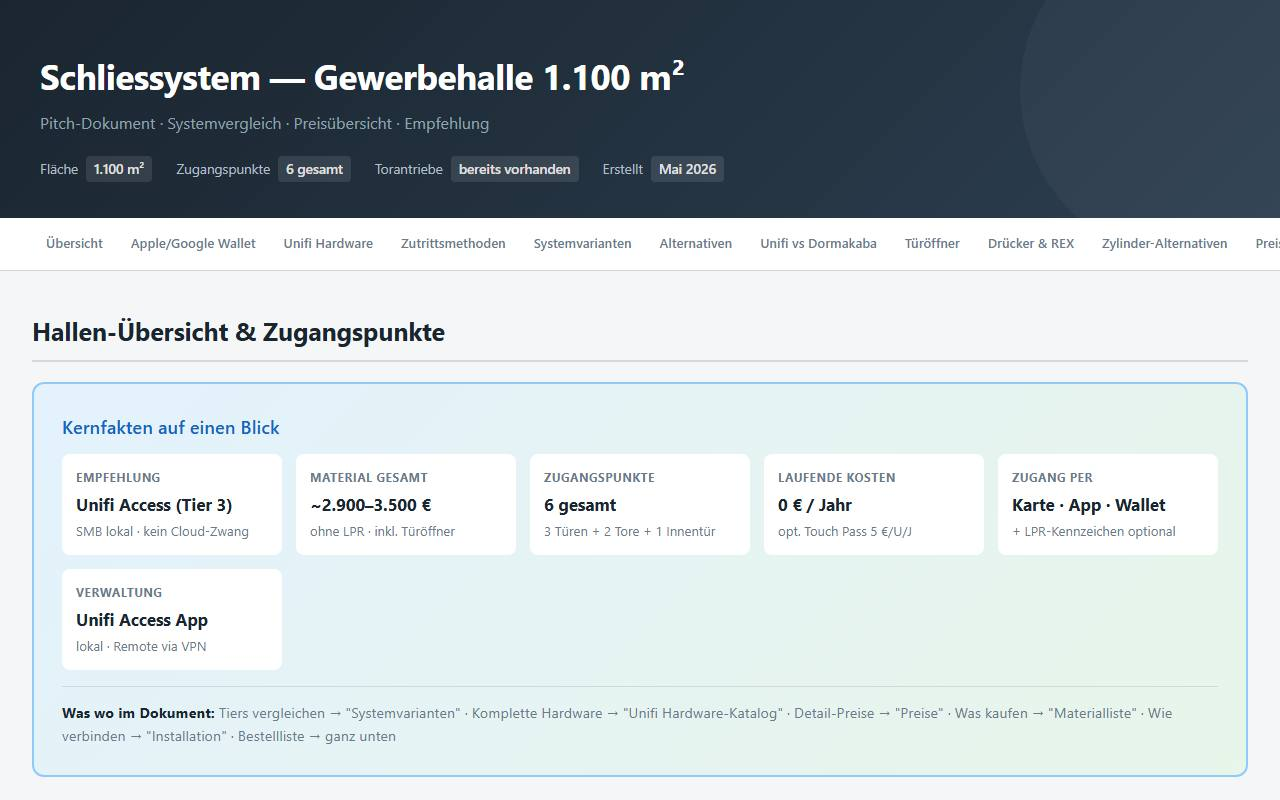
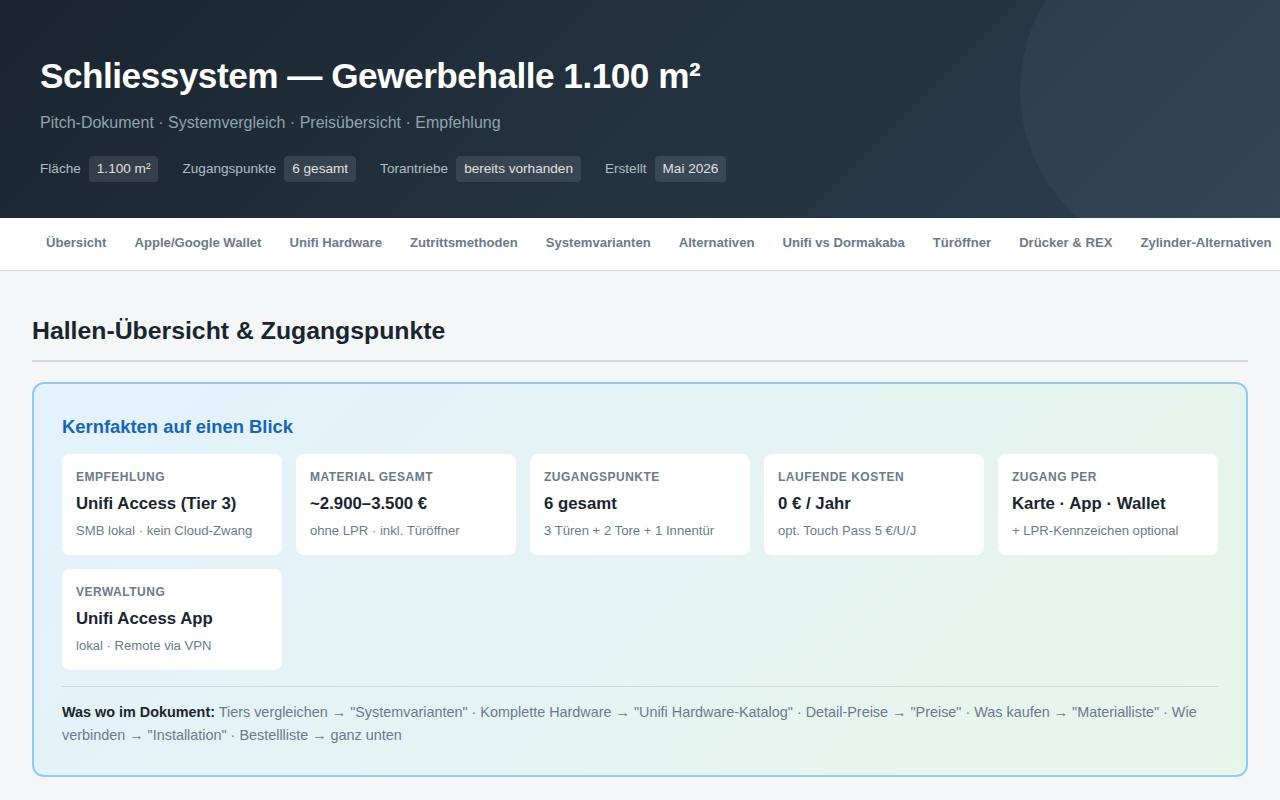
Tests: eigene XFF-IP je Spec-Datei — Unlock-Rate-Limit zählt auch Erfolge, Suite blockte sich selbst (Regression durch test.use-Header abgedeckt)

diff --git a/tests/e2e/visual.spec.ts b/tests/e2e/visual.spec.ts
@@ -2,6 +2,10 @@ import { test, type Page } from "@playwright/test";
 
 const CODE = "dev-test-code";
 
+// Eigene XFF-IP pro Spec-Datei: das Unlock-Rate-Limit (5/15min) zählt auch
+// erfolgreiche Logins — ohne getrennte IPs blockt der Suite-Lauf sich selbst.
+test.use({ extraHTTPHeaders: { "x-forwarded-for": "203.0.113.50" } });
+
 // emulateMedia setzt prefers-reduced-motion verlässlich (anders als test.use hier):
 // → Lenis aus (natives Scrollen) + Reveal sofort sichtbar → vollständiger Full-Page-Shot.
 async function unlock(page: Page) {

diff --git a/tests/e2e/a11y.spec.ts b/tests/e2e/a11y.spec.ts
@@ -3,6 +3,9 @@ import AxeBuilder from "@axe-core/playwright";
 
 const CODE = "dev-test-code";
 
+// Eigene XFF-IP pro Spec-Datei (Unlock-Rate-Limit zählt auch Erfolge).
+test.use({ extraHTTPHeaders: { "x-forwarded-for": "203.0.113.51" } });
+
 async function scan(page: import("@playwright/test").Page, label: string) {
   const results = await new AxeBuilder({ page })
     .withTags(["wcag2a", "wcag2aa", "wcag21a", "wcag21aa"])

diff --git a/tests/e2e/review.spec.ts b/tests/e2e/review.spec.ts
@@ -2,6 +2,9 @@ import { test, type Page } from "@playwright/test";
 
 const CODE = "dev-test-code";
 
+// Eigene XFF-IP pro Spec-Datei (Unlock-Rate-Limit zählt auch Erfolge).
+test.use({ extraHTTPHeaders: { "x-forwarded-for": "203.0.113.52" } });
+
 async function unlock(page: Page) {
   await page.emulateMedia({ reducedMotion: "reduce" });
   await page.goto("/unlock");

diff --git a/tests/e2e/thumbs.spec.ts b/tests/e2e/thumbs.spec.ts
@@ -5,6 +5,9 @@ import { researchDocs } from "../../content/research";
 // Research-Karten. Kein echter Test — ein Generator-Lauf.
 const CODE = "dev-test-code";
 
+// Eigene XFF-IP pro Spec-Datei (Unlock-Rate-Limit zählt auch Erfolge).
+test.use({ extraHTTPHeaders: { "x-forwarded-for": "203.0.113.53" } });
+
 test("generate research thumbnails", async ({ page }) => {
   await page.goto("/unlock");
   await page.locator("#code").fill(CODE);